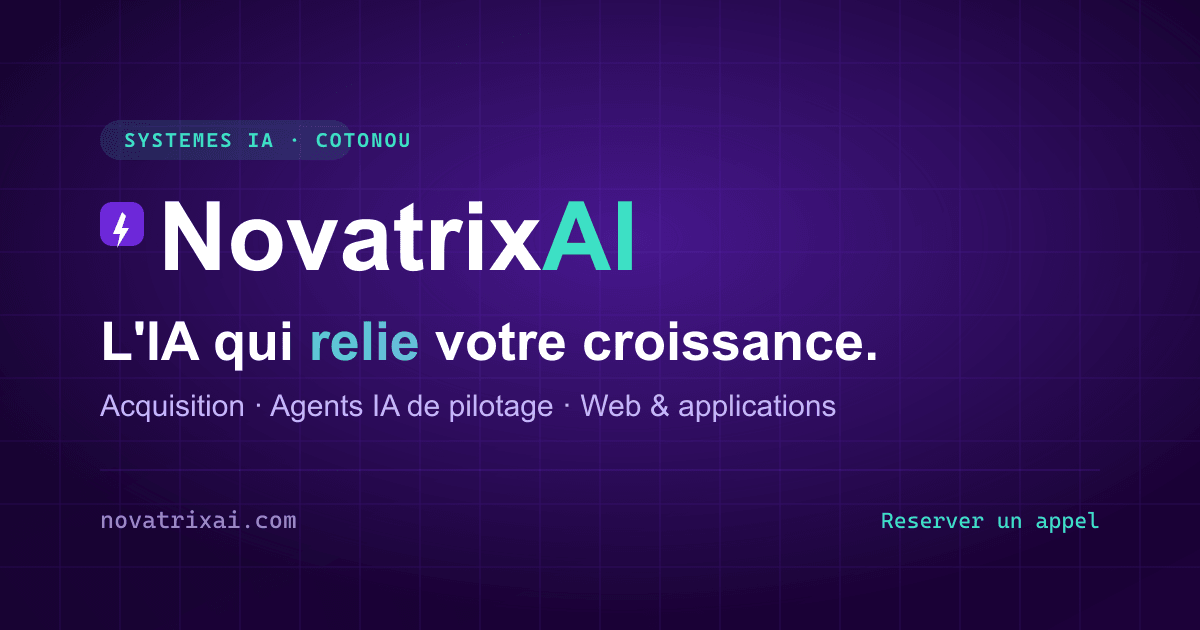
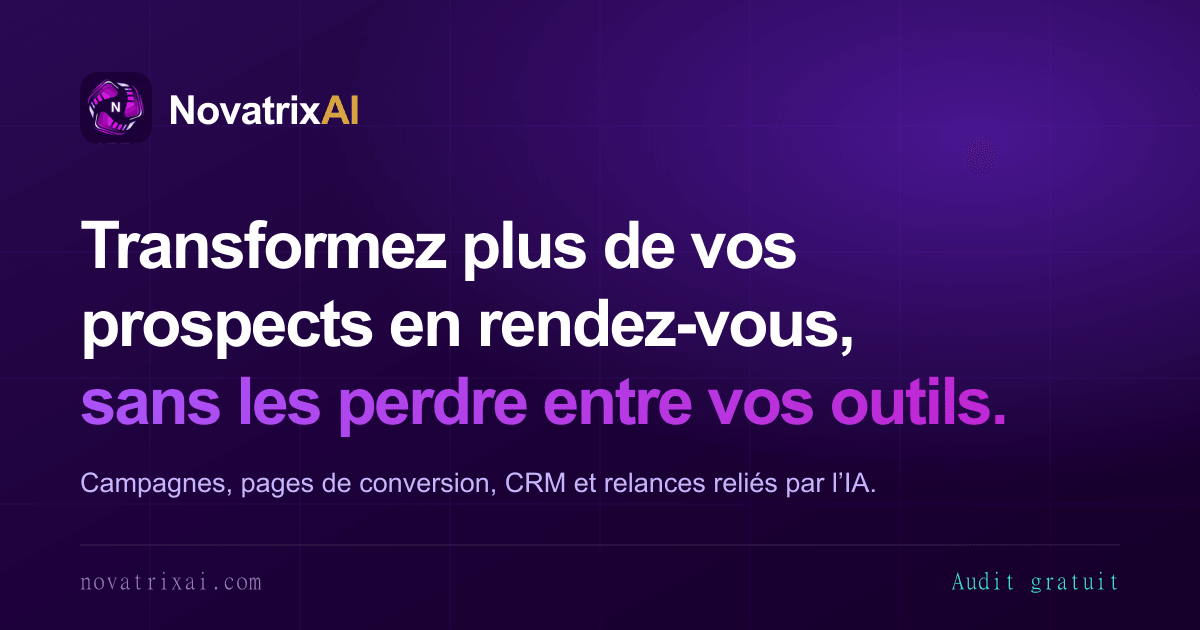
fix(mobile): ligne de progression tronquee et apercu de partage obsolete
Ligne des problemes : sur mobile elle s arretait sous la premiere carte
au lieu de relier les trois. Les lignes de la grille etaient implicites,
donc grid-row: 1 / -1 sur le trait vertical n en couvrait qu une seule.
Elles sont desormais declarees explicitement. Mesure : la ligne passe de
258 px a 738 px, soit toute la hauteur du bloc. Le desktop, qui
redefinit deja grid-template-rows, reste inchange.

Apercu de partage : og-default.png datait d une version precedente du
site et annoncait une accroche et un logo qui n existent plus. L image
est regeneree avec le titre actuel, le vrai logo et la charte violette ;
scripts/generate-og-image.mjs permet de la refaire quand le discours
change.

diff --git a/assets/css/main.css b/assets/css/main.css
@@ -484,6 +484,10 @@ header.glass {
 .problems-track {
   display: grid;
   grid-template-columns: 20px 1fr;
+  /* Les trois lignes sont déclarées explicitement : sans cela elles restent implicites et
+     `grid-row: 1 / -1` sur le trait vertical ne couvre que la première, de sorte que la
+     ligne de progression s'arrêtait sous la première carte au lieu de relier les trois. */
+  grid-template-rows: repeat(3, auto);
   column-gap: 1rem;
   row-gap: 1.25rem;
 }
